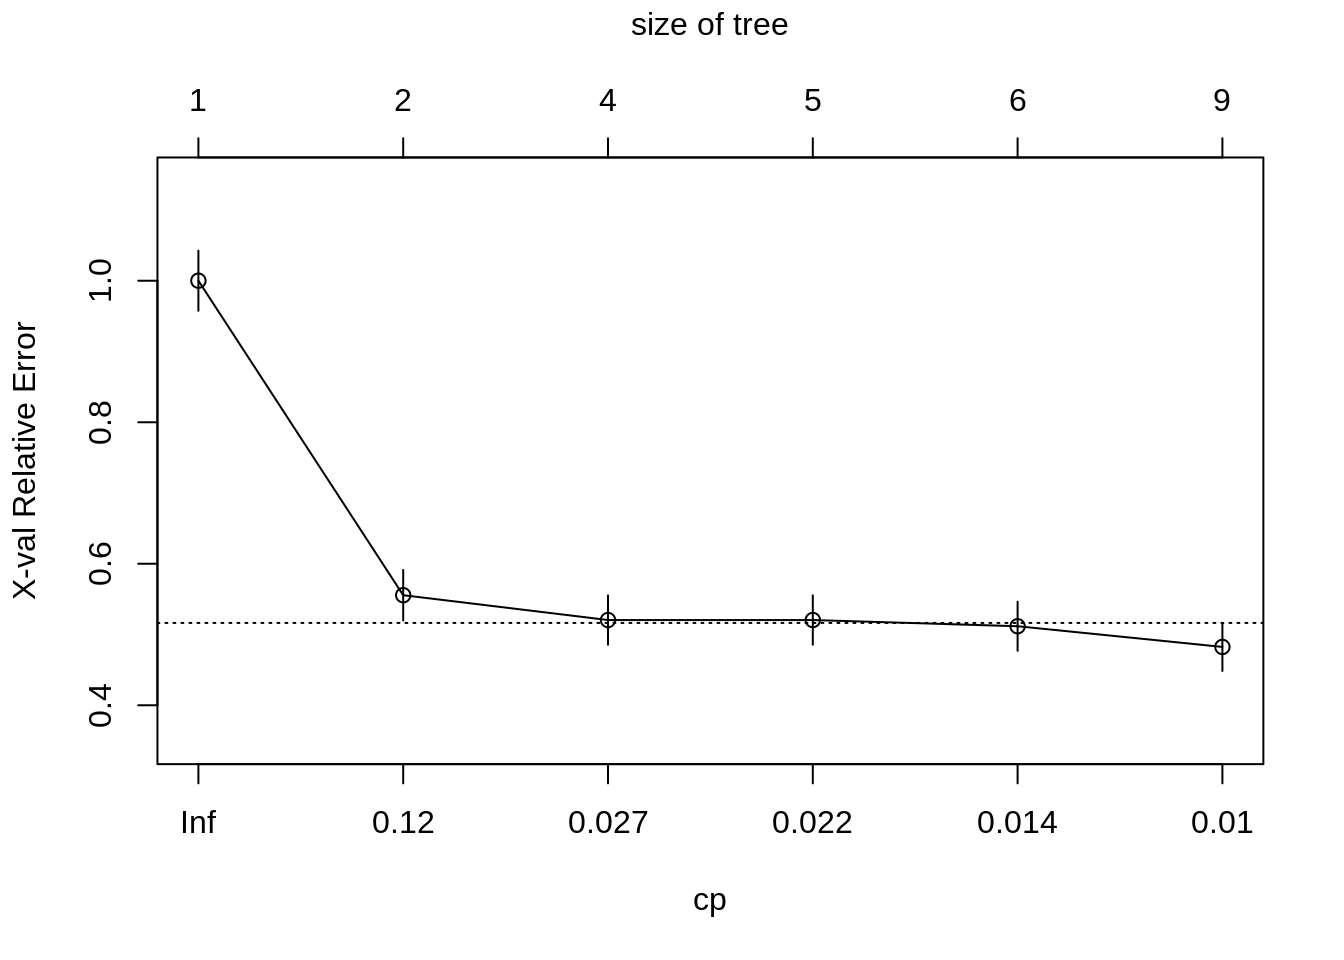
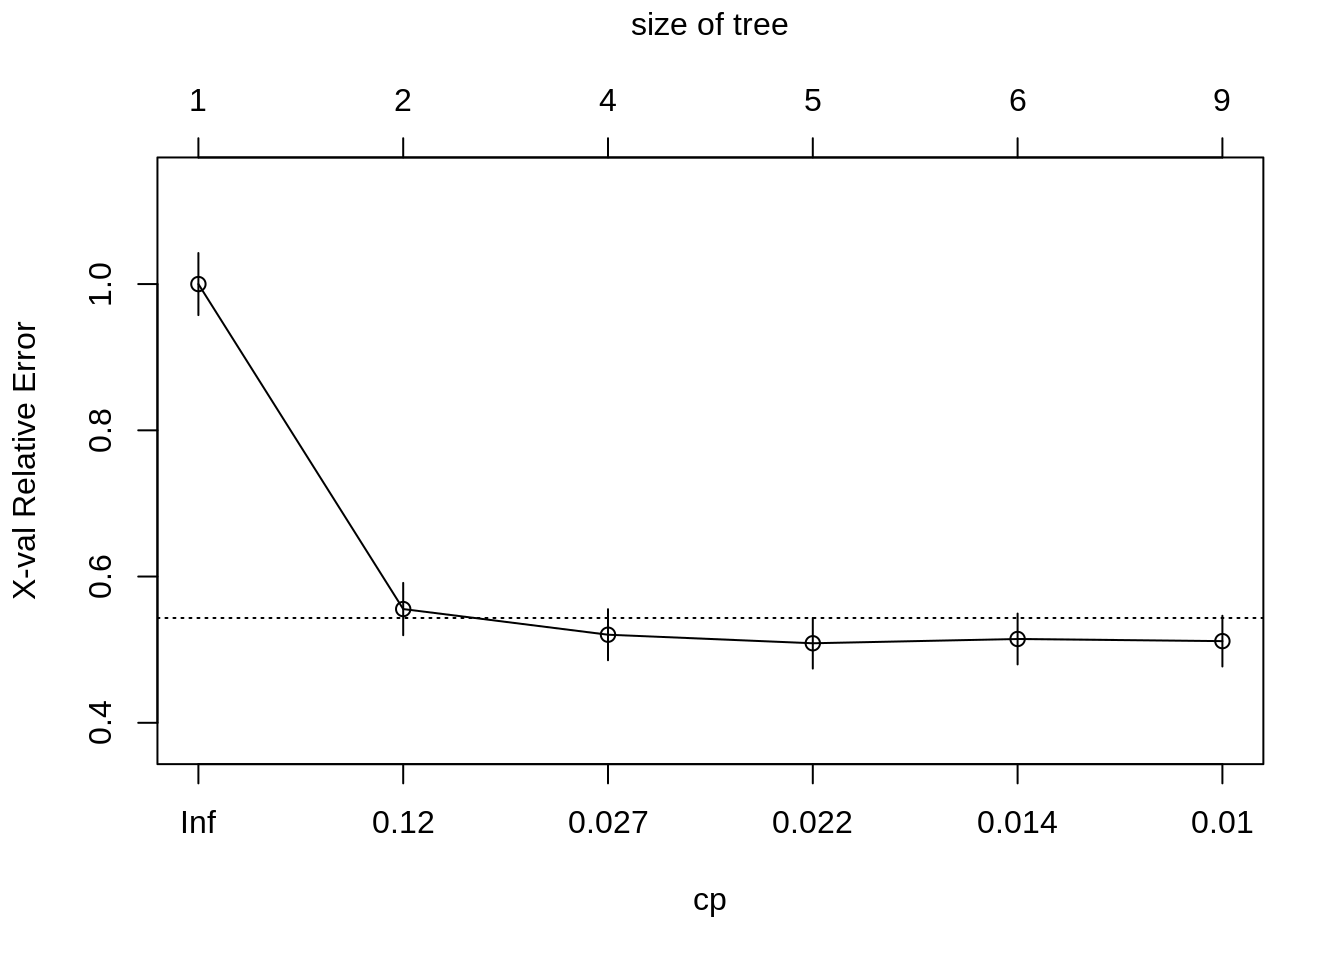
Deploy lebebr01/stat_thinking to github.com/lebebr01/stat_thinking.git:master

diff --git a/docs/classification.html b/docs/classification.html
@@ -325,9 +325,9 @@ titanic &lt;-<span class="st"> </span><span class="kw">bind_rows</span>(titanic_
 ## 1 0.444444      0   1.00000 1.00000 0.042446
 ## 2 0.030702      1   0.55556 0.55556 0.035750
 ## 3 0.023392      3   0.49415 0.52047 0.034897
-## 4 0.020468      4   0.47076 0.52047 0.034897
-## 5 0.010234      5   0.45029 0.51170 0.034675
-## 6 0.010000      8   0.41813 0.48246 0.033904</code></pre>
+## 4 0.020468      4   0.47076 0.50877 0.034599
+## 5 0.010234      5   0.45029 0.51462 0.034749
+## 6 0.010000      8   0.41813 0.51170 0.034675</code></pre>
 <div class="sourceCode"><pre class="sourceCode r"><code class="sourceCode r"><span class="kw">plotcp</span>(class_tree)</code></pre></div>
 <p><img src="05-classification_files/figure-html/unnamed-chunk-6-1.png" width="672" /></p>
 <div class="sourceCode"><pre class="sourceCode r"><code class="sourceCode r">prune_class_tree &lt;-<span class="st"> </span><span class="kw">prune</span>(class_tree, <span class="dt">cp =</span> .<span class="dv">02</span>)

diff --git a/docs/05-classification.md b/docs/05-classification.md
@@ -250,9 +250,9 @@ printcp(class_tree)
 ## 1 0.444444      0   1.00000 1.00000 0.042446
 ## 2 0.030702      1   0.55556 0.55556 0.035750
 ## 3 0.023392      3   0.49415 0.52047 0.034897
-## 4 0.020468      4   0.47076 0.52047 0.034897
-## 5 0.010234      5   0.45029 0.51170 0.034675
-## 6 0.010000      8   0.41813 0.48246 0.033904
+## 4 0.020468      4   0.47076 0.50877 0.034599
+## 5 0.010234      5   0.45029 0.51462 0.034749
+## 6 0.010000      8   0.41813 0.51170 0.034675
 ```
 
 ```r
